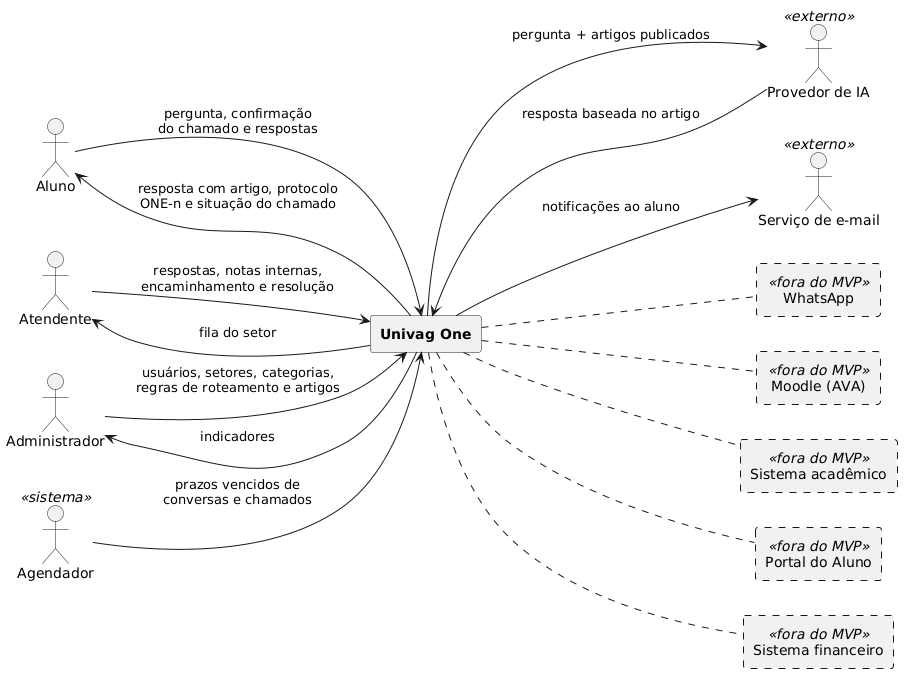
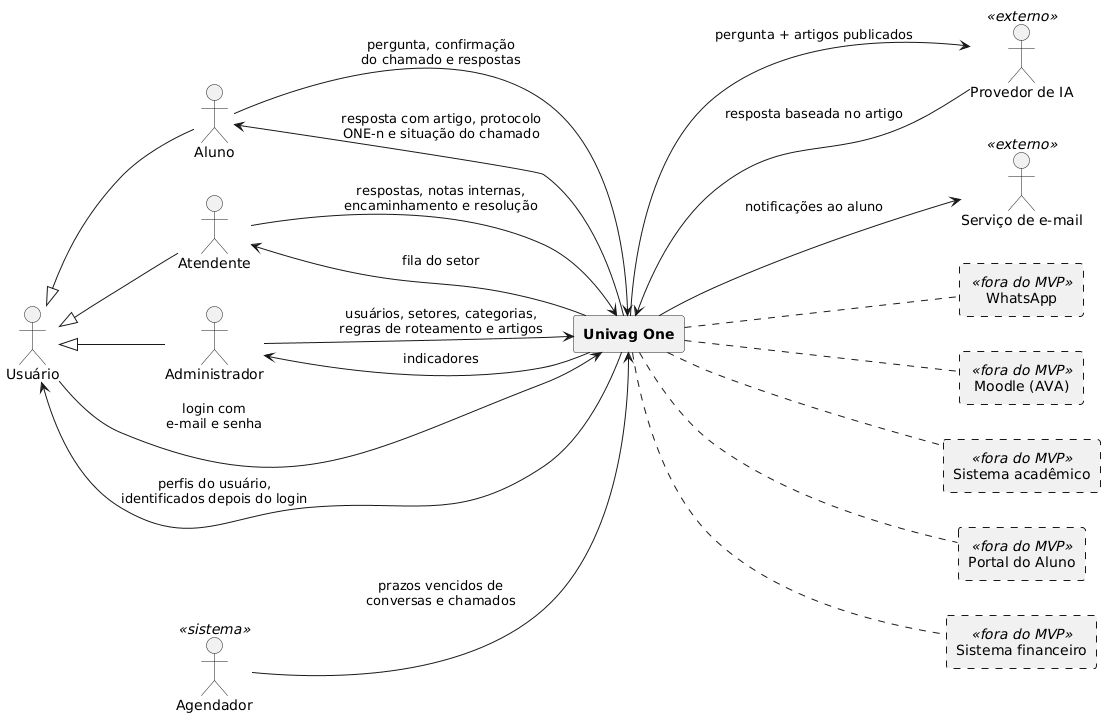
docs: identify the user's profile only after sign-in
Usuário is the generic actor that Aluno, Atendente and Administrador specialize in the use-case and context diagrams; Figura 4.1 starts at the sign-in; Figura 5.2 shows Entrar no One and the later chapter 5 figures move to 5.3-5.8. The multi-profile rule is BR-A8 and RNF-16 (Segurança), kept out of the RF list per the professor's correction (AD-012). The diagram verifier follows the new numbering, lanes and generalization.

diff --git a/docs/05-arquitetura-da-solucao.md b/docs/05-arquitetura-da-solucao.md
@@ -28,7 +28,7 @@ Fonte: elaborado pelos autores (2026).
 
 **Autenticação (proposta).** A autenticação usa o ASP.NET Core Identity, com as senhas armazenadas como *hash* (RNF-15). Só o administrador cria contas, sem autocadastro (RNF-12), e o usuário inativado não acessa o sistema (RNF-14).
 
-**Banco de dados.** O PostgreSQL guarda os usuários, os setores, as categorias, os artigos e suas versões, as conversas, os chamados, as mensagens, os anexos e os eventos do histórico, conforme o modelo lógico (Figura 5.7). A aplicação não oferece nenhum meio de alterar ou apagar chamados, mensagens e eventos do histórico (RNF-06). O banco guarda o nome, o tipo e o tamanho de cada anexo; o local de armazenamento dos arquivos: [a preencher pelo grupo].
+**Banco de dados.** O PostgreSQL guarda os usuários, os setores, as categorias, os artigos e suas versões, as conversas, os chamados, as mensagens, os anexos e os eventos do histórico, conforme o modelo lógico (Figura 5.8). A aplicação não oferece nenhum meio de alterar ou apagar chamados, mensagens e eventos do histórico (RNF-06). O banco guarda o nome, o tipo e o tamanho de cada anexo; o local de armazenamento dos arquivos: [a preencher pelo grupo].
 
 **Provedor de IA.** A API envia ao provedor a pergunta do aluno junto com artigos publicados, que são a única base permitida para a resposta (RF-02). Os anexos nunca são enviados ao provedor, e o aluno vê um aviso sobre esse uso antes da primeira mensagem (RNF-03). Provedor escolhido: [a preencher pelo grupo].
 
@@ -40,27 +40,35 @@ Hoje o back-end tem só a base: o projeto `src/backend/One.Api` responde `Health
 
 ## Diagramas de sequência
 
-Os diagramas de sequência mostram o caminho de uma requisição pelas camadas da Figura 5.1, do usuário até o banco de dados e os serviços externos, e de volta. Eles detalham os casos de uso do fluxo principal. As mensagens descrevem cada passo, e não o nome dos *endpoints*, que ainda não foram definidos. Os blocos `alt` separam os caminhos alternativos e de exceção das especificações de casos de uso.
+Os diagramas de sequência mostram o caminho de uma requisição pelas camadas da Figura 5.1, do usuário até o banco de dados e os serviços externos, e de volta. Eles detalham a entrada no sistema e os casos de uso do fluxo principal. As mensagens descrevem cada passo, e não o nome dos *endpoints*, que ainda não foram definidos. Os blocos `alt` separam os caminhos alternativos e de exceção das especificações de casos de uso.
 
-A Figura 5.2 mostra o caso de uso Conversar com o assistente (UC-01). A API confere o usuário, lê os artigos publicados e só consulta o provedor de IA quando há artigo relacionado. Ela grava a cópia da resposta exibida, com o artigo e a versão (RF-06). Se não houver artigo (exceção E1) ou se o aluno responder Não (fluxo A1), o front-end oferece abrir um chamado.
+A Figura 5.2 mostra a entrada no One. Ela não é um caso de uso, porque entrar no sistema não é um objetivo do usuário, mas mostra o momento em que o perfil passa a ser conhecido: o sistema só sabe se a pessoa é aluno, atendente ou administrador depois do login. A API lê a conta pelo e-mail e compara a senha com o *hash* guardado (RNF-15). Se o e-mail ou a senha não conferem (exceção E1) ou se a conta está inativa (exceção E2, RNF-14), o acesso é recusado. Com o acesso válido, a API identifica os perfis do usuário (RF-29). Quem tem um perfil vai direto para a tela inicial dele; quem tem mais de um escolhe com qual perfil entrar (RNF-16). Os demais diagramas começam depois desse passo, com o perfil já identificado.
 
-Figura 5.2 — Diagrama de sequência de Conversar com o assistente
+Figura 5.2 — Diagrama de sequência de Entrar no One
+
+![Diagrama de sequência da entrada no One, com o login e a identificação do perfil](diagramas/sequencia-login.png)
+
+Fonte: elaborado pelos autores (2026).
+
+A Figura 5.3 mostra o caso de uso Conversar com o assistente (UC-01). A API confere o usuário, lê os artigos publicados e só consulta o provedor de IA quando há artigo relacionado. Ela grava a cópia da resposta exibida, com o artigo e a versão (RF-06). Se não houver artigo (exceção E1) ou se o aluno responder Não (fluxo A1), o front-end oferece abrir um chamado.
+
+Figura 5.3 — Diagrama de sequência de Conversar com o assistente
 
 ![Diagrama de sequência do caso de uso Conversar com o assistente](diagramas/sequencia-conversa.png)
 
 Fonte: elaborado pelos autores (2026).
 
-A Figura 5.3 mostra o caso de uso Abrir chamado (UC-02). Depois da confirmação do aluno, a API grava o chamado com o contexto da conversa, aplica a regra de roteamento da categoria e registra a criação no histórico. Sem regra, com a categoria Não classificado ou com o curso sem coordenação configurada (exceção E1), o chamado vai para o setor de triagem. Se o aluno não confirma (fluxo A1), nenhum chamado é criado.
+A Figura 5.4 mostra o caso de uso Abrir chamado (UC-02). Depois da confirmação do aluno, a API grava o chamado com o contexto da conversa, aplica a regra de roteamento da categoria e registra a criação no histórico. Sem regra, com a categoria Não classificado ou com o curso sem coordenação configurada (exceção E1), o chamado vai para o setor de triagem. Se o aluno não confirma (fluxo A1), nenhum chamado é criado.
 
-Figura 5.3 — Diagrama de sequência de Abrir chamado
+Figura 5.4 — Diagrama de sequência de Abrir chamado
 
 ![Diagrama de sequência do caso de uso Abrir chamado](diagramas/sequencia-chamado.png)
 
 Fonte: elaborado pelos autores (2026).
 
-A Figura 5.4 junta os casos de uso Atender chamado (UC-06) e Resolver chamado (UC-07). A API só devolve os chamados dos setores do atendente (RNF-13). Ao assumir, o atendente passa a ser o responsável, e o chamado vai para Em atendimento (F2). Cada resposta pública e a resolução geram um e-mail ao aluno; a nota interna (fluxo A2) fica só no histórico e não gera e-mail (RF-22).
+A Figura 5.5 junta os casos de uso Atender chamado (UC-06) e Resolver chamado (UC-07). A API só devolve os chamados dos setores do atendente (RNF-13). Ao assumir, o atendente passa a ser o responsável, e o chamado vai para Em atendimento (F2). Cada resposta pública e a resolução geram um e-mail ao aluno; a nota interna (fluxo A2) fica só no histórico e não gera e-mail (RF-22).
 
-Figura 5.4 — Diagrama de sequência de Atender e Resolver chamado
+Figura 5.5 — Diagrama de sequência de Atender e Resolver chamado
 
 ![Diagrama de sequência dos casos de uso Atender chamado e Resolver chamado](diagramas/sequencia-atendimento.png)
 
@@ -68,9 +76,9 @@ Fonte: elaborado pelos autores (2026).
 
 ## Diagrama de classes
 
-A Figura 5.5 mostra as classes do domínio, com seus atributos, operações e associações. A classe VinculoCurso guarda o semestre do aluno em cada curso (premissa Q19), e a classe MensagemConversa aponta para a versão do artigo que foi exibida, o que preserva o histórico mesmo quando o artigo é editado depois (RF-06). Os tipos enumerados usados nos atributos estão no Quadro 5.1.
+A Figura 5.6 mostra as classes do domínio, com seus atributos, operações e associações. A classe VinculoCurso guarda o semestre do aluno em cada curso (premissa Q19), e a classe MensagemConversa aponta para a versão do artigo que foi exibida, o que preserva o histórico mesmo quando o artigo é editado depois (RF-06). Os tipos enumerados usados nos atributos estão no Quadro 5.1.
 
-Figura 5.5 — Diagrama de classes
+Figura 5.6 — Diagrama de classes
 
 ![Diagrama de classes](diagramas/classes.png)
 
@@ -94,9 +102,9 @@ Os atributos são privados (-) e as operações são públicas (+). Cada operaç
 
 ## Modelo conceitual
 
-A Figura 5.6 traz o modelo conceitual de dados, na notação de Chen: as entidades são retângulos, os relacionamentos são losangos e o atributo identificador de cada entidade aparece sublinhado. A cardinalidade fica no formato (mínimo, máximo), junto da entidade a que se refere. Nele, cada conversa gera no máximo um chamado, cada chamado fica em exatamente um setor e cada artigo tem uma ou mais versões. Para ficar coerente com o diagrama de classes e com o modelo lógico, o modelo também registra quem atualizou cada versão de artigo (ATUALIZA), quem escreveu cada mensagem do chamado (ESCREVE), quem executou cada evento do histórico (EXECUTA) e a categoria com que o chamado foi aberto (ENQUADRA_NA_ABERTURA), que se mantém quando ele é reclassificado. Para manter a figura legível, os demais atributos aparecem no diagrama de classes (Figura 5.5) e no modelo lógico (Figura 5.7).
+A Figura 5.7 traz o modelo conceitual de dados, na notação de Chen: as entidades são retângulos, os relacionamentos são losangos e o atributo identificador de cada entidade aparece sublinhado. A cardinalidade fica no formato (mínimo, máximo), junto da entidade a que se refere. Nele, cada conversa gera no máximo um chamado, cada chamado fica em exatamente um setor e cada artigo tem uma ou mais versões. Para ficar coerente com o diagrama de classes e com o modelo lógico, o modelo também registra quem atualizou cada versão de artigo (ATUALIZA), quem escreveu cada mensagem do chamado (ESCREVE), quem executou cada evento do histórico (EXECUTA) e a categoria com que o chamado foi aberto (ENQUADRA_NA_ABERTURA), que se mantém quando ele é reclassificado. Para manter a figura legível, os demais atributos aparecem no diagrama de classes (Figura 5.6) e no modelo lógico (Figura 5.8).
 
-Figura 5.6 — Modelo conceitual de dados
+Figura 5.7 — Modelo conceitual de dados
 
 ![Modelo conceitual de dados na notação de Chen](diagramas/modelo-conceitual.png)
 
@@ -104,11 +112,11 @@ Fonte: elaborado pelos autores (2026).
 
 ## Modelo lógico
 
-A Figura 5.7 mostra o modelo lógico para o banco de dados PostgreSQL, com as chaves primárias (PK), estrangeiras (FK) e únicas (UK). Os relacionamentos muitos-para-muitos do modelo conceitual viraram as tabelas `aluno_curso` e `atendente_setor`, e os perfis do usuário ficam na tabela `usuario_papel`. Algumas regras dos requisitos ficam garantidas pelo próprio banco. O número do chamado é único e gerado por sequência (RF-10). A chave única em `chamado.conversa_id` impede que uma conversa tenha mais de um chamado (RF-07). Um índice único parcial sobre `setor.triagem` impede que exista mais de um setor de triagem (RF-13).
+A Figura 5.8 mostra o modelo lógico para o banco de dados PostgreSQL, com as chaves primárias (PK), estrangeiras (FK) e únicas (UK). Os relacionamentos muitos-para-muitos do modelo conceitual viraram as tabelas `aluno_curso` e `atendente_setor`, e os perfis do usuário ficam na tabela `usuario_papel`. Algumas regras dos requisitos ficam garantidas pelo próprio banco. O número do chamado é único e gerado por sequência (RF-10). A chave única em `chamado.conversa_id` impede que uma conversa tenha mais de um chamado (RF-07). Um índice único parcial sobre `setor.triagem` impede que exista mais de um setor de triagem (RF-13).
 
 Cada tabela lista as colunas com o tipo, e o asterisco marca as colunas obrigatórias (NOT NULL). Cada chave estrangeira tem a sua própria ligação, na notação pé de galinha: o lado da tabela referenciada mostra se a referência é obrigatória ou opcional, e o outro lado mostra quantas linhas podem apontar para ela. Quando duas ligações unem as mesmas tabelas, a linha traz o nome da coluna, como `solicitante_id` e `responsavel_id` ou `categoria_id` e `categoria_original_id`, em `chamado`.
 
-Figura 5.7 — Modelo lógico de dados
+Figura 5.8 — Modelo lógico de dados
 
 ![Modelo lógico de dados para o PostgreSQL, com uma ligação por chave estrangeira](diagramas/modelo-logico.png)
 

diff --git a/docs/02-especificacao-do-projeto.md b/docs/02-especificacao-do-projeto.md
@@ -4,12 +4,13 @@ Este capítulo especifica o que o produto mínimo viável do One deve fazer. Ele
 
 ## Perfis de usuário
 
-O Quadro 2.1 descreve os três perfis de usuário e os atores externos que aparecem nos casos de uso. Uma mesma pessoa pode ter mais de um perfil.
+O Quadro 2.1 descreve o usuário, os três perfis de usuário e os atores externos que aparecem nos casos de uso. Uma mesma pessoa pode ter mais de um perfil. O sistema só sabe quais são os perfis de uma pessoa depois do login: até lá, ela é apenas um usuário (RNF-16).
 
 Quadro 2.1 — Perfis de usuário e atores externos
 
 | Perfil ou ator | Tipo | Quem é | O que faz no sistema |
 |---|---|---|---|
+| Usuário | Ator genérico | Pessoa com conta no One, cadastrada pelo administrador (RNF-12), antes de o sistema identificar o perfil dela | Entra no One com e-mail e senha (RNF-15); depois do login, age como Aluno, Atendente ou Administrador, conforme o perfil identificado ou escolhido (RNF-16) |
 | Aluno | Perfil de usuário | Estudante matriculado em um curso da instituição | Conversa com o assistente, abre e acompanha chamados, responde, cancela, confirma ou rejeita resoluções |
 | Atendente | Perfil de usuário | Funcionário de um setor, como a coordenação de curso ou a CAE | Vê a fila dos seus setores, assume, responde, encaminha, reclassifica e resolve chamados |
 | Administrador | Perfil de usuário | Responsável pela configuração do sistema | Cadastra usuários, setores, categorias, regras de roteamento e artigos da base de conhecimento, e consulta os indicadores |
@@ -21,7 +22,7 @@ Fonte: elaborado pelos autores (2026).
 
 ## Requisitos funcionais
 
-O Quadro 2.2 lista os requisitos funcionais do produto mínimo viável. A lista começa pelo que resolve o problema do aluno: a conversa com o assistente (RF-01 a RF-07). Depois vêm a abertura do chamado (RF-08 a RF-10), o roteamento (RF-11 a RF-14), o ciclo de vida e o atendimento do chamado (RF-15 a RF-23), a base de conhecimento (RF-24 a RF-26), os indicadores (RF-27) e a administração de usuários (RF-28 a RF-30). As regras de acesso, de visibilidade e de autenticação estão na seção Requisitos não funcionais (RNF-05 e RNF-12 a RNF-15).
+O Quadro 2.2 lista os requisitos funcionais do produto mínimo viável. A lista começa pelo que resolve o problema do aluno: a conversa com o assistente (RF-01 a RF-07). Depois vêm a abertura do chamado (RF-08 a RF-10), o roteamento (RF-11 a RF-14), o ciclo de vida e o atendimento do chamado (RF-15 a RF-23), a base de conhecimento (RF-24 a RF-26), os indicadores (RF-27) e a administração de usuários (RF-28 a RF-30). As regras de acesso, de visibilidade e de autenticação estão na seção Requisitos não funcionais (RNF-05 e RNF-12 a RNF-16).
 
 A coluna Origem mostra de quais regras de negócio cada requisito vem. As regras estão na seção Regras de negócio: os códigos BR (por exemplo, BR-B1) e as transições de estado do chamado, de F1 a F9.
 
@@ -120,7 +121,7 @@ Fonte: elaborado pelos autores (2026).
 
 ## Requisitos não funcionais
 
-O Quadro 2.4 traz os requisitos não funcionais. A fonte de cada um é o manual da disciplina, uma lei, uma premissa, uma regra de negócio ou uma decisão do grupo. Os requisitos RNF-01 a RNF-11 mantêm os identificadores da versão anterior. Os requisitos RNF-12 a RNF-15 são novos: os três primeiros vieram dos antigos RF-01, RF-03 e RF-04, e o RNF-15 registra como a autenticação é feita. Os valores do RNF-02 são uma proposta do grupo e ainda precisam ser validados com a coordenação.
+O Quadro 2.4 traz os requisitos não funcionais. A fonte de cada um é o manual da disciplina, uma lei, uma premissa, uma regra de negócio ou uma decisão do grupo. Os requisitos RNF-01 a RNF-11 mantêm os identificadores da versão anterior. Os requisitos RNF-12 a RNF-16 são novos: os três primeiros vieram dos antigos RF-01, RF-03 e RF-04, o RNF-15 registra como a autenticação é feita e o RNF-16, que o perfil só é identificado depois do login. Os valores do RNF-02 são uma proposta do grupo e ainda precisam ser validados com a coordenação.
 
 Quadro 2.4 — Requisitos não funcionais
 
@@ -141,6 +142,7 @@ Quadro 2.4 — Requisitos não funcionais
 | RNF-13 | Segurança | Cada perfil deve ver apenas o que lhe cabe: o aluno, as suas conversas e os seus chamados, sem as notas internas; o atendente, os chamados que estão nos seus setores, e ele perde o acesso quando o chamado é encaminhado para fora deles; o administrador, todos os chamados, todas as conversas e o painel de indicadores. Só o administrador cria, edita, publica e arquiva artigos. O servidor deve verificar essas regras em toda requisição, e não apenas a interface. | BR-A4, BR-A5, BR-A6, BR-C3, BR-G2, BR-H2; premissa Q12 (antigo RF-03) |
 | RNF-14 | Segurança | O usuário inativado não deve conseguir acessar o sistema; o histórico dele continua intacto e atribuído a ele. | BR-A7 (antigo RF-04) |
 | RNF-15 | Segurança | A autenticação deve ser feita com o ASP.NET Core Identity, e as senhas devem ser armazenadas como *hash*, nunca em texto puro. | Proposto pelo grupo; orientação do professor (aulas de 16/09 e 22/09) |
+| RNF-16 | Segurança | O sistema deve identificar os perfis do usuário só depois do login e abrir a tela inicial do perfil; quando o usuário tiver mais de um perfil, deve pedir que ele escolha com qual perfil entrar. | BR-A8; pedido do grupo em 20/10/2026 |
 
 Fonte: elaborado pelos autores (2026).
 
@@ -268,7 +270,7 @@ Fonte: elaborado pelos autores com base no Manual do PEI (UNIVAG, 2026).
 
 ## Diagrama de casos de uso
 
-A Figura 2.2 mostra os 22 casos de uso do produto mínimo viável e os atores ligados a eles por linhas simples. Os atores são os três perfis de usuário (Aluno, Atendente e Administrador), dois sistemas externos (Provedor de IA e Serviço de e-mail) e o Agendador, que encerra conversas e fecha chamados quando um prazo vence. Os casos de uso estão agrupados em cinco pacotes: Atendimento ao aluno, Atendimento pelos setores, Base de conhecimento, Administração e Rotinas automáticas. O caso de uso Abrir chamado estende Conversar com o assistente, porque só acontece quando a conversa não resolve a dúvida.
+A Figura 2.2 mostra os 22 casos de uso do produto mínimo viável e os atores ligados a eles por linhas simples. Os atores são o Usuário, os três perfis de usuário (Aluno, Atendente e Administrador), dois sistemas externos (Provedor de IA e Serviço de e-mail) e o Agendador, que encerra conversas e fecha chamados quando um prazo vence. Os casos de uso estão agrupados em cinco pacotes: Atendimento ao aluno, Atendimento pelos setores, Base de conhecimento, Administração e Rotinas automáticas. O caso de uso Abrir chamado estende Conversar com o assistente, porque só acontece quando a conversa não resolve a dúvida. O Usuário é a pessoa que entra no One; Aluno, Atendente e Administrador são especializações dele, ligadas por setas de generalização, porque o perfil só é identificado depois do login (RNF-16). Uma nota no diagrama registra essa regra.
 
 A cor de cada caso de uso mostra o status, conforme a legenda no topo do diagrama: branco para Proposto, amarelo para Priorizado, azul para Em desenvolvimento, verde para Desenvolvido e vermelho para Cancelado. Todos os casos de uso estão como Proposto. Muitos deles já aparecem no protótipo visual, mas o protótipo não tem *back-end*, então nenhum está marcado como Desenvolvido.
 

diff --git a/docs/04-projeto-de-interface.md b/docs/04-projeto-de-interface.md
@@ -4,28 +4,29 @@ Este capítulo mostra como o usuário percorre o One e apresenta as telas do pro
 
 ## Fluxo principal
 
-O fluxo principal começa na dúvida do aluno e termina nos indicadores do administrador. Os passos são:
+O fluxo principal começa no login e termina nos indicadores do administrador. Os passos são:
 
-1. O aluno entra no One com o perfil Aluno e abre o assistente acadêmico.
-2. O aluno escreve a dúvida em texto livre, e isso inicia uma conversa (RF-01).
-3. O assistente procura um artigo publicado na base de conhecimento. Ele só responde com o conteúdo de artigos publicados (RF-02) e mostra qual artigo usou (RF-06).
-4. Se não houver artigo para a pergunta, o assistente avisa que não encontrou resposta e oferece abrir um chamado (RF-04).
-5. Quando há resposta, o assistente pergunta "Isso resolveu?", com as opções Sim e Não (RF-03).
-6. Se o aluno responde Sim, a conversa termina como resolvida pelo autoatendimento (RF-05).
-7. Se o aluno responde Não, o assistente oferece abrir um chamado. O chamado só é criado depois que o aluno confirma (RF-08).
-8. O chamado leva o contexto da conversa, e o aluno não precisa digitar tudo de novo (RF-09). Ele recebe um protocolo no formato ONE-n (RF-10). Cada conversa gera no máximo um chamado (RF-07).
-9. O sistema envia o chamado para o setor certo pela categoria. Sem regra para a categoria, o chamado vai para o setor de triagem (RF-11, RF-12).
-10. O atendente do setor vê o chamado na fila, assume o atendimento, responde ao aluno e registra notas internas que o aluno não vê (RF-15, RF-18).
-11. Se o chamado é de outro setor, o atendente o encaminha e registra o motivo (RF-20).
-12. O atendente resolve o chamado. O aluno confirma a resolução ou a rejeita (RF-15). O chamado fechado não aceita mais mudanças (RF-16).
-13. Cada passo fica no histórico do chamado, que só recebe acréscimos (RF-23).
-14. O administrador acompanha os indicadores do atendimento (RF-27) e mantém a base de conhecimento (RF-25).
+1. A pessoa entra no One com e-mail e senha (RNF-15). Só depois do login o sistema identifica o perfil dela: quem tem um perfil vai direto para a tela inicial dele, e quem tem mais de um escolhe com qual perfil entrar (RNF-16).
+2. Com o perfil Aluno, o aluno abre o assistente acadêmico.
+3. O aluno escreve a dúvida em texto livre, e isso inicia uma conversa (RF-01).
+4. O assistente procura um artigo publicado na base de conhecimento. Ele só responde com o conteúdo de artigos publicados (RF-02) e mostra qual artigo usou (RF-06).
+5. Se não houver artigo para a pergunta, o assistente avisa que não encontrou resposta e oferece abrir um chamado (RF-04).
+6. Quando há resposta, o assistente pergunta "Isso resolveu?", com as opções Sim e Não (RF-03).
+7. Se o aluno responde Sim, a conversa termina como resolvida pelo autoatendimento (RF-05).
+8. Se o aluno responde Não, o assistente oferece abrir um chamado. O chamado só é criado depois que o aluno confirma (RF-08).
+9. O chamado leva o contexto da conversa, e o aluno não precisa digitar tudo de novo (RF-09). Ele recebe um protocolo no formato ONE-n (RF-10). Cada conversa gera no máximo um chamado (RF-07).
+10. O sistema envia o chamado para o setor certo pela categoria. Sem regra para a categoria, o chamado vai para o setor de triagem (RF-11, RF-12).
+11. O atendente do setor vê o chamado na fila, assume o atendimento, responde ao aluno e registra notas internas que o aluno não vê (RF-15, RF-18).
+12. Se o chamado é de outro setor, o atendente o encaminha e registra o motivo (RF-20).
+13. O atendente resolve o chamado. O aluno confirma a resolução ou a rejeita (RF-15). O chamado fechado não aceita mais mudanças (RF-16).
+14. Cada passo fica no histórico do chamado, que só recebe acréscimos (RF-23).
+15. O administrador acompanha os indicadores do atendimento (RF-27) e mantém a base de conhecimento (RF-25).
 
-A Figura 4.1 mostra o mesmo fluxo como um diagrama de atividades, com uma raia para cada ator: Aluno, One (sistema), Atendente e Administrador. O diagrama de casos de uso mostra quem faz cada operação, mas não a ordem entre elas; as raias mostram essa ordem e quem age em cada passo. Os losangos são as decisões, e cada saída traz a condição entre colchetes. O conector A indica que, quando o aluno rejeita a resolução, o chamado volta para o atendente.
+A Figura 4.1 mostra o mesmo fluxo como um diagrama de atividades, com uma raia para cada ator: Usuário, One (sistema), Aluno, Atendente e Administrador. A raia Usuário é a da pessoa antes de o perfil ser identificado; o fluxo passa para a raia Aluno só depois do login e da identificação do perfil. O atendente e o administrador entram pelo mesmo caminho. O diagrama de casos de uso mostra quem faz cada operação, mas não a ordem entre elas; as raias mostram essa ordem e quem age em cada passo. Os losangos são as decisões, e cada saída traz a condição entre colchetes. O conector A indica que, quando o aluno rejeita a resolução, o chamado volta para o atendente.
 
 Figura 4.1 — Diagrama de atividades do fluxo principal
 
-![Diagrama de atividades do fluxo principal com as raias Aluno, One (sistema), Atendente e Administrador](diagramas/fluxo-principal.png)
+![Diagrama de atividades do fluxo principal com as raias Usuário, One (sistema), Aluno, Atendente e Administrador](diagramas/fluxo-principal.png)
 
 Fonte: elaborado pelos autores (2026).
 
@@ -47,7 +48,7 @@ O protótipo é separado da arquitetura do MVP, que usa React no front-end e ASP
 
 As capturas abaixo foram geradas a partir do protótipo e estão em ordem de uso. Elas seguem o fluxo principal: login, assistente, chamado, atendimento e administração.
 
-A Figura 4.2 mostra a tela de login demonstrativo. O usuário escolhe um dos três perfis e entra sem senha. Esta tela não corresponde a um RF. A autenticação real é um requisito não funcional de segurança (RNF-15) e ainda não existe no protótipo.
+A Figura 4.2 mostra a tela de login demonstrativo. O usuário escolhe um dos três perfis e entra sem senha. A tela só simula a escolha de perfil do RNF-16: no sistema, a pessoa entra com e-mail e senha (RNF-15), o perfil vem da conta dela depois do login, e a escolha só aparece para quem tem mais de um perfil. A autenticação real ainda não existe no protótipo.
 
 Figura 4.2 — Seleção de perfil no login demonstrativo
 

diff --git a/docs/01-documentacao-de-contexto.md b/docs/01-documentacao-de-contexto.md
@@ -101,7 +101,7 @@ Relação com os Objetivos de Desenvolvimento Sustentável (ODS): [a preencher p
 
 ## Público-alvo
 
-O One tem três perfis de usuário. Uma mesma pessoa pode ter mais de um perfil.
+O One tem três perfis de usuário. Uma mesma pessoa pode ter mais de um perfil. O sistema só sabe qual é o perfil de uma pessoa depois do login: quem tem um perfil entra direto nele, e quem tem mais de um escolhe com qual entrar.
 
 - **Alunos.** No piloto, são os alunos de Análise e Desenvolvimento de Sistemas. Hoje eles usam principalmente o WhatsApp para falar com a coordenação, e a maior parte das mensagens chega pelo celular. Muitas vezes não sabem onde encontrar um serviço que já existe, como o boleto no Portal do Aluno. Conhecimentos prévios e relação com a tecnologia: [a preencher pelo grupo].
 - **Atendentes dos setores.** São os funcionários dos setores que recebem chamados, como a coordenação de curso e a Central de Atendimento ao Estudante (CAE). Pela premissa Q11, a coordenadora é atendente do setor da coordenação. A CAE resolve hoje as questões financeiras, os pagamentos e os documentos pessoais. O piloto prevê até três setores.
@@ -128,7 +128,7 @@ Para isso, o produto tem oito módulos:
 
 O piloto previsto é pequeno. Ele envolve uma instituição (o UNIVAG), uma coordenação (a dos cursos de tecnologia), os alunos de Análise e Desenvolvimento de Sistemas, até três setores e de dez a trinta artigos na base de conhecimento.
 
-A Figura 1.2 mostra o contexto do One. À esquerda ficam os três perfis de usuário e o Agendador, que encerra conversas e fecha chamados quando um prazo vence. À direita ficam os dois serviços externos, o provedor de IA e o serviço de e-mail. As setas indicam o que entra e o que sai do sistema. As integrações em linha tracejada ficam fora do produto mínimo viável, conforme a seção Fora do escopo.
+A Figura 1.2 mostra o contexto do One. À esquerda ficam o Usuário, os três perfis de usuário e o Agendador, que encerra conversas e fecha chamados quando um prazo vence. O Usuário é a pessoa que entra no One com e-mail e senha; Aluno, Atendente e Administrador são especializações dele, porque o perfil só é identificado depois do login (RNF-16). À direita ficam os dois serviços externos, o provedor de IA e o serviço de e-mail. As setas indicam o que entra e o que sai do sistema. As integrações em linha tracejada ficam fora do produto mínimo viável, conforme a seção Fora do escopo.
 
 Figura 1.2 — Diagrama de contexto
 

diff --git a/docs/07-programacao-de-funcionalidades.md b/docs/07-programacao-de-funcionalidades.md
@@ -10,7 +10,7 @@ Quadro 7.1 — Funcionalidades do protótipo visual
 
 | Funcionalidade | Perfil | RFs cobertos (novos IDs) | Situação |
 | --- | --- | --- | --- |
-| Login demonstrativo: o usuário escolhe um perfil, sem senha | Aluno, Atendente, Administrador | Nenhum (a autenticação é o RNF-15) | Simulado no protótipo (sem back-end) |
+| Login demonstrativo: o usuário escolhe um perfil, sem senha | Aluno, Atendente, Administrador | Nenhum (a autenticação é o RNF-15; a escolha de perfil do RNF-16 é só simulada: qualquer pessoa escolhe qualquer perfil, sem conta nem senha) | Simulado no protótipo (sem back-end) |
 | Assistente acadêmico em chat: responde só com artigos publicados, mostra o artigo usado, pergunta "Isso resolveu?" com Sim e Não, avisa quando não há artigo e oferece abrir solicitação | Aluno | RF-01, RF-02, RF-03, RF-04, RF-05, RF-06, RF-07 | Simulado no protótipo (sem back-end) |
 | Consulta à base de conhecimento: busca por palavra-chave, filtro por categoria e leitura do artigo | Aluno, Atendente | RF-24, RF-25 | Simulado no protótipo (sem back-end) |
 | Gestão da base de conhecimento: criar, editar, publicar e arquivar artigos nas situações rascunho, publicado e arquivado, com nova versão ao editar um artigo publicado | Administrador | RF-24, RF-25, RF-26 | Simulado no protótipo (sem back-end) |

diff --git a/src/README.md b/src/README.md
@@ -6,7 +6,7 @@ Código-fonte do Univag One (BitForge). A pasta tem quatro partes:
 | --- | --- | --- |
 | [`src/backend/`](./backend/) | API REST em ASP.NET Core (.NET 10), com testes de integração em xUnit | Estrutura inicial: `GET /health` e documento OpenAPI |
 | [`src/frontend/`](./frontend/README.md) | SPA/PWA em React com Vite | Ainda sem código; o grupo vai escolher entre TypeScript e JavaScript |
-| [`src/diagramas/`](./diagramas/) | Fontes PlantUML (`.puml`) dos diagramas da documentação; as imagens PNG ficam em [`docs/diagramas/`](../docs/diagramas/) | 12 diagramas |
+| [`src/diagramas/`](./diagramas/) | Fontes PlantUML (`.puml`) dos diagramas da documentação; as imagens PNG ficam em [`docs/diagramas/`](../docs/diagramas/) | 13 diagramas |
 | [`src/prototipo/`](./prototipo/README.md) | Protótipo visual navegável em HTML, CSS e JavaScript, com dados simulados e sem back-end | Publicado em <https://bitforgee.github.io/prototipo-v1-one/> |
 
 Todos os comandos abaixo rodam a partir da raiz do repositório.
